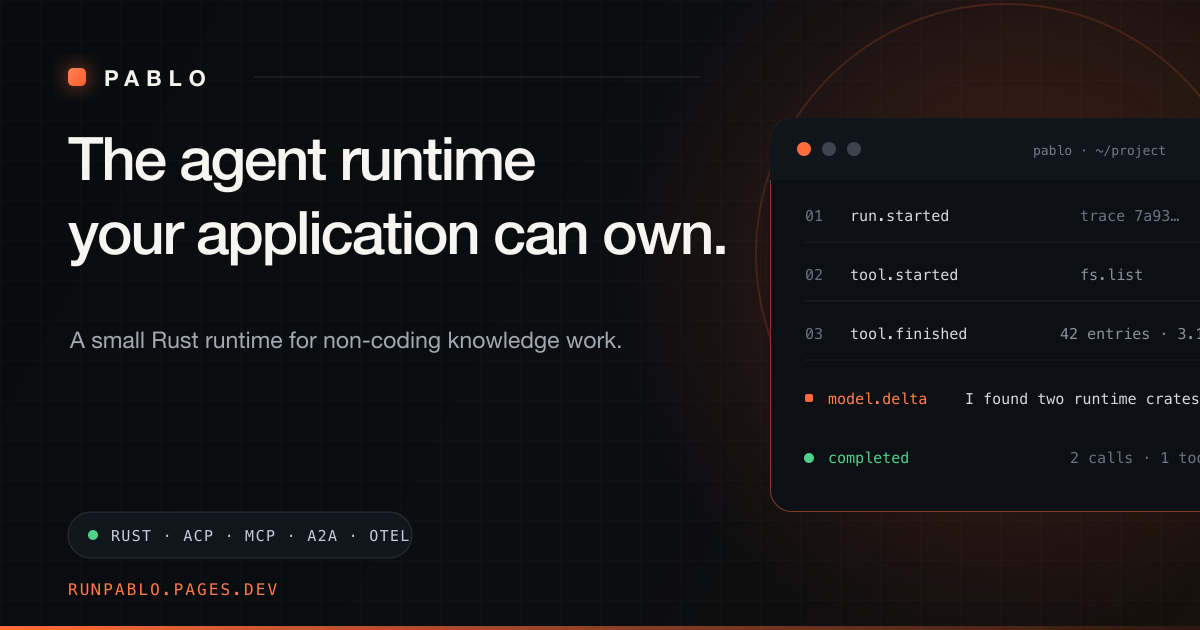
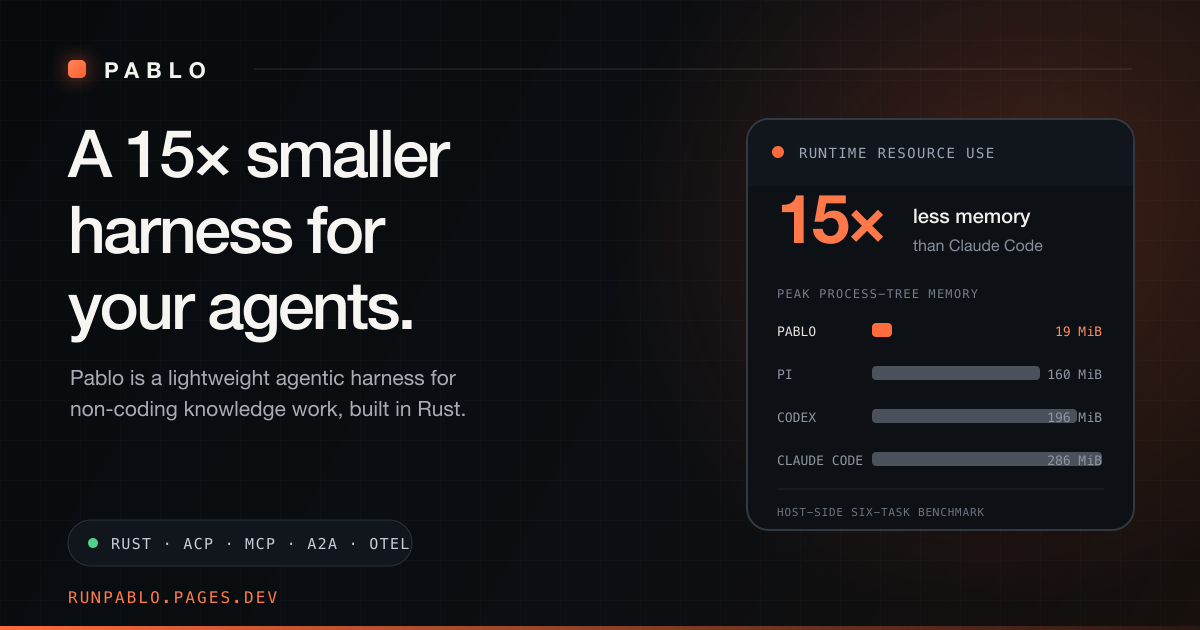
site: align launch story and social preview

diff --git a/website/.vitepress/theme/style.css b/website/.vitepress/theme/style.css
@@ -604,13 +604,13 @@ body {
 
 .benchmark-link:hover { color: var(--vp-c-brand-1) !important; }
 
-.hero-benchmark {
+.interop-section {
   max-width: 1180px;
   margin: 8px auto 82px;
   padding: 0 32px;
 }
 
-.hero-benchmark-copy {
+.interop-copy {
   display: grid;
   grid-template-columns: 1.15fr 1fr;
   column-gap: 64px;
@@ -618,7 +618,7 @@ body {
   margin-bottom: 30px;
 }
 
-.hero-benchmark-copy > span {
+.interop-copy > span {
   grid-column: 1 / -1;
   margin-bottom: 14px;
   color: var(--vp-c-brand-1);
@@ -627,7 +627,7 @@ body {
   letter-spacing: .14em;
 }
 
-.hero-benchmark-copy h2 {
+.interop-copy h2 {
   margin: 0;
   font-size: clamp(30px, 4vw, 47px);
   font-weight: 650;
@@ -635,12 +635,91 @@ body {
   line-height: 1.08;
 }
 
-.hero-benchmark-copy p {
+.interop-copy p {
   margin: 0;
   color: var(--vp-c-text-2);
   font-size: 15px;
   line-height: 1.7;
 }
+
+.interop-grid {
+  display: grid;
+  grid-template-columns: repeat(4, minmax(0, 1fr));
+  border: 1px solid var(--vp-c-divider);
+  border-radius: 9px 9px 0 0;
+  overflow: hidden;
+  background: var(--vp-c-bg-soft);
+}
+
+.interop-grid > a {
+  display: flex;
+  min-width: 0;
+  min-height: 270px;
+  flex-direction: column;
+  padding: 26px 24px;
+  border-right: 1px solid var(--vp-c-divider);
+  color: var(--vp-c-text-1) !important;
+  text-decoration: none !important;
+  transition: background-color .18s ease;
+}
+
+.interop-grid > a:last-child { border-right: 0; }
+.interop-grid > a:hover { background: var(--vp-c-bg-alt); }
+
+.interop-grid small {
+  color: var(--vp-c-brand-1);
+  font-family: var(--vp-font-family-mono);
+  font-size: 9px;
+  letter-spacing: .13em;
+}
+
+.interop-grid strong {
+  margin-top: 38px;
+  font-size: 24px;
+  letter-spacing: -.03em;
+}
+
+.interop-grid p {
+  margin: 14px 0 24px;
+  color: var(--vp-c-text-2);
+  font-size: 13px;
+  line-height: 1.65;
+}
+
+.interop-grid a > span {
+  margin-top: auto;
+  color: var(--vp-c-text-1);
+  font-size: 12px;
+  font-weight: 700;
+}
+
+.interop-binary {
+  display: flex;
+  align-items: center;
+  gap: 14px;
+  padding: 18px 24px;
+  border: 1px solid var(--vp-c-divider);
+  border-top: 0;
+  border-radius: 0 0 9px 9px;
+  color: var(--vp-c-text-2);
+  font-family: var(--vp-font-family-mono);
+  font-size: 11px;
+}
+
+.interop-binary strong {
+  color: var(--vp-c-text-1);
+  font-family: var(--vp-font-family-base);
+  font-size: 13px;
+}
+
+.interop-binary code {
+  padding: 4px 8px;
+  border: 1px solid var(--vp-c-divider);
+  border-radius: 4px;
+  color: var(--vp-c-brand-1);
+}
+
+.interop-binary > span:last-child { margin-left: auto; }
 
 .benchmark-page .VPDoc .content-container {
   max-width: 1056px;
@@ -659,8 +738,7 @@ body {
   background: linear-gradient(135deg, rgba(255, 107, 53, .12), rgba(255, 107, 53, .02));
 }
 
-.final-cta span { color: var(--vp-c-brand-1); font-family: var(--vp-font-family-mono); font-size: 9px; letter-spacing: .14em; }
-.final-cta h2 { max-width: 780px; margin: 14px 0 28px !important; font-size: clamp(28px, 4vw, 43px) !important; }
+.final-cta h2 { max-width: 780px; margin: 0 0 28px !important; font-size: clamp(28px, 4vw, 43px) !important; }
 .final-cta a { display: inline-block; color: var(--vp-c-text-1) !important; font-size: 13px; font-weight: 700; text-decoration: none !important; }
 
 .vp-doc h1 {
@@ -754,6 +832,9 @@ body {
   .terminal-shell,
   .footprint-shell { width: 100%; }
   .runtime-hero { grid-template-columns: 1fr; }
+  .interop-grid { grid-template-columns: repeat(2, minmax(0, 1fr)); }
+  .interop-grid > a:nth-child(2) { border-right: 0; }
+  .interop-grid > a:nth-child(-n+2) { border-bottom: 1px solid var(--vp-c-divider); }
 }
 
 @media (min-width: 961px) {
@@ -765,9 +846,15 @@ body {
 }
 
 @media (max-width: 720px) {
-  .hero-benchmark { margin: 0 auto 64px; padding: 0 20px; }
-  .hero-benchmark-copy { grid-template-columns: 1fr; gap: 14px; margin-bottom: 24px; }
-  .hero-benchmark-copy > span { margin-bottom: 0; }
+  .interop-section { margin: 0 auto 64px; padding: 0 20px; }
+  .interop-copy { grid-template-columns: 1fr; gap: 14px; margin-bottom: 24px; }
+  .interop-copy > span { margin-bottom: 0; }
+  .interop-grid { grid-template-columns: 1fr; }
+  .interop-grid > a,
+  .interop-grid > a:nth-child(2) { min-height: 220px; border-right: 0; border-bottom: 1px solid var(--vp-c-divider); }
+  .interop-grid > a:last-child { border-bottom: 0; }
+  .interop-binary { align-items: flex-start; flex-wrap: wrap; }
+  .interop-binary > span:last-child { width: 100%; margin-left: 29px; }
   .VPHome .vp-doc { padding: 0 20px 70px; }
   .VPHomeHero .main { text-align: left; }
   .VPHomeHero .name,

diff --git a/website/.vitepress/theme/InteropHero.vue b/website/.vitepress/theme/InteropHero.vue
@@ -1,0 +1,45 @@
+<template>
+  <section class="interop-section" aria-labelledby="interop-title">
+    <div class="interop-copy">
+      <span>OPEN PROTOCOLS / INCLUDED</span>
+      <h2 id="interop-title">One small Rust binary. The agent stack is built in.</h2>
+      <p>
+        Drop Pablo beside your application and choose the boundary you need. Host
+        it over ACP, connect MCP tools, load portable Agent Skills, and delegate
+        bounded work to A2A peers without assembling a separate runtime for each.
+      </p>
+    </div>
+    <div class="interop-grid">
+      <a href="/acp">
+        <small>01 / HOST</small>
+        <strong>ACP</strong>
+        <p>Stream tasks, updates, cancellation and typed outcomes over stable stdio.</p>
+        <span>Integrate an application →</span>
+      </a>
+      <a href="/extensibility#mcp-tools">
+        <small>02 / TOOLS</small>
+        <strong>MCP</strong>
+        <p>Attach stdio or Streamable HTTP tool servers under host-owned policy.</p>
+        <span>Connect tools →</span>
+      </a>
+      <a href="/subagents#remote-subagents-through-a2a">
+        <small>03 / AGENTS</small>
+        <strong>A2A</strong>
+        <p>Delegate bounded tasks to remote agents through typed cards and artifacts.</p>
+        <span>Delegate work →</span>
+      </a>
+      <a href="/extensibility#portable-agent-skills">
+        <small>04 / KNOWLEDGE</small>
+        <strong>Agent Skills</strong>
+        <p>Discover portable instructions and selected resources from local skill folders.</p>
+        <span>Load skills →</span>
+      </a>
+    </div>
+    <div class="interop-binary">
+      <span class="signal-live" />
+      <strong>One native executable</strong>
+      <code>pablo</code>
+      <span>macOS + Linux · arm64 + x86_64</span>
+    </div>
+  </section>
+</template>

diff --git a/website/.vitepress/theme/Layout.vue b/website/.vitepress/theme/Layout.vue
@@ -1,7 +1,7 @@
 <script setup>
 import DefaultTheme from "vitepress/theme";
 import FootprintHero from "./FootprintHero.vue";
-import HeroBenchmark from "./HeroBenchmark.vue";
+import InteropHero from "./InteropHero.vue";
 import RuntimeHero from "./RuntimeHero.vue";
 
 const { Layout } = DefaultTheme;
@@ -16,7 +16,7 @@ const { Layout } = DefaultTheme;
       <RuntimeHero />
     </template>
     <template #home-features-after>
-      <HeroBenchmark />
+      <InteropHero />
     </template>
   </Layout>
 </template>

diff --git a/docs/project/evidence/c3.36-footprint-title-og.md b/docs/project/evidence/c3.36-footprint-title-og.md
@@ -1,0 +1,25 @@
+# C3.36 footprint title and social card
+
+Date: 2026-09-15
+
+## Change
+
+The homepage browser title, Open Graph metadata and Twitter card metadata now use `Pablo — A 15× smaller harness for your agents`. Their description uses `A lightweight agentic harness for non-coding knowledge work, built in Rust.`
+
+The 1200×630 Open Graph image uses the same headline and subheader. Its resource panel anchors the 15× position to peak process-tree memory against Claude Code and retains the measured Pablo, Pi, Codex and Claude Code values. The SVG is the editable source; `og.png` is its rasterized public artifact.
+
+## Landing simplification
+
+The benchmark graphic now appears once in the primary hero. The former full-width duplicate was replaced with an interoperability section that explains how the single native Rust executable hosts ACP, connects MCP tool servers, delegates through A2A and loads portable Agent Skills. Each protocol card links to its detailed guide.
+
+The landing-page prerelease warning was removed; the detailed limitations remain on the dedicated release-status and installation pages. The final call to action was shortened to `Try Pablo today`, followed by the integration-guide link.
+
+## Verification
+
+- `cd website && npm test` passed all eight content, asset, metadata and release-route tests. The homepage regression now checks the exact document, Open Graph and Twitter titles and rejects the superseded browser title.
+- `rsvg-convert --width 1200 --height 630 website/public/og.svg --output website/public/og.png` produced a 1200×630 RGB PNG.
+- Direct visual inspection of `website/public/og.png` at original resolution confirmed that the headline, subheader, comparison labels, values and product URL fit without clipping or overlap.
+- Browser-use opened the built homepage at a 1728×1117 viewport. It reported the exact new document title, Open Graph title and description, Twitter title and public `og.png` URL; the full-page screenshot showed no landing-page layout regression.
+- Browser-use reviewed the replacement interoperability section at 1728×1117 and 390×844. The desktop four-column and mobile single-column layouts showed ACP, MCP, A2A and Agent Skills without clipping; the mobile document width remained exactly 390 pixels. DOM inspection confirmed the duplicate benchmark and prerelease banner were absent and the final CTA read `Try Pablo today`.
+
+Production verification follows merge and the Cloudflare Pages deployment.

diff --git a/docs/guide/index.md b/docs/guide/index.md
@@ -1,8 +1,8 @@
 ---
 layout: home
-title: Pablo — Rust agent runtime
+title: Pablo — A 15× smaller harness for your agents
 titleTemplate: false
-description: A small, bounded Rust agent runtime for applications doing non-coding knowledge work.
+description: A lightweight agentic harness for non-coding knowledge work, built in Rust.
 hero:
   name: Pablo / measured footprint
   text: A 15× smaller harness for your agents.
@@ -85,12 +85,7 @@ Every admitted task ends as `completed`, `cancelled`, `timed_out`, `policy_denie
   <div><b>Operations</b><span>Offline config inspection, focused diagnostics, bounded JSONL traces and OTLP export.</span></div>
 </div>
 
-::: warning Prerelease status
-Pablo `v0.0.1` preview archives are available through the installer. They are unsigned, the macOS builds are not notarized, and the full four-platform acceptance matrix is still in progress. The runtime contract is versioned and may change before 0.1.
-:::
-
 <div class="final-cta">
-  <span>READY TO ADD AGENT EXECUTION?</span>
-  <h2>Install Pablo, verify it offline, then connect your application through ACP or Rust.</h2>
+  <h2>Try Pablo today</h2>
   <a href="/getting-started">Open the integration guide →</a>
 </div>
